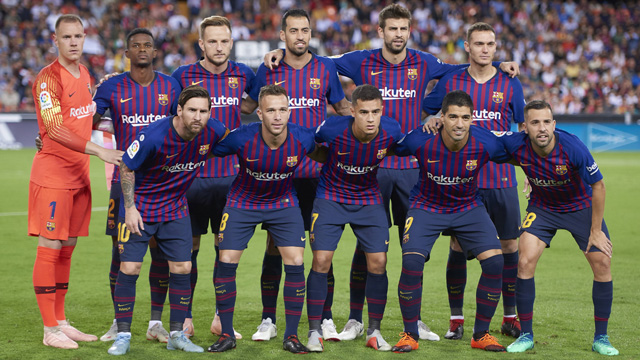
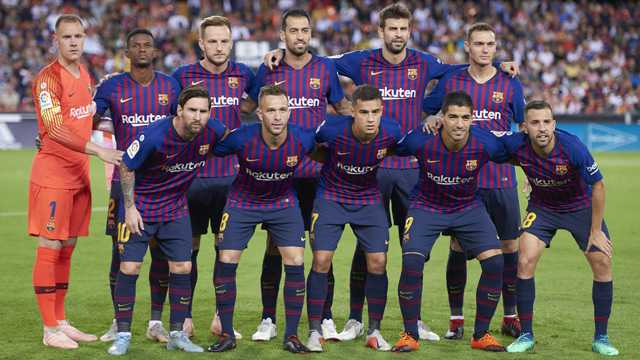
Optimized assets and lazy load images

diff --git a/src/Container/Players/Players.js b/src/Container/Players/Players.js
@@ -3,9 +3,8 @@ import { playerAction } from '../../Actions/Actions';
 import store from '../../Store';
 import { connect } from 'react-redux';
 import './Players.css'
-import Profile from '../../Components/Profile/Profile';
 import playersData from '../../Stubs/players.json';
-
+import Profile from '../../Components/Profile/Profile';
 
 
 class Players extends Component {
@@ -19,6 +18,13 @@ class Players extends Component {
         const togglePlayers = () => {
             const players = document.querySelector("#playersList");
             if(players.classList.contains("hide")){
+
+                const lazyImages = document.querySelectorAll(".lazy");
+                lazyImages.forEach((item) => {
+                    item.src = item.dataset.src;
+                    item.classList.remove("lazy");
+                });
+
                 document.querySelector(".showPlayers").innerHTML = "Hide Players";
                 players.classList.remove("anime");
                 players.classList.remove("hide");
@@ -39,13 +45,12 @@ class Players extends Component {
         } else {
         return(
         <>
-        <button className="btn btn-info showPlayers" onClick={() => togglePlayers()}>Show players</button>
-        <div className="container-fluid">
-            <div className="row row--bg hide" id="playersList">
-            {this.props.data.players.map((player) => <Profile key={player._id} player={player}/> 
-            )}
+        <button className="btn btn-info showPlayers" onClick={() => togglePlayers()}>Show players</button>        
+            <div className="container-fluid">
+                <div className="row row--bg hide" id="playersList">
+                    {this.props.data.players.map((player) => <Profile key={player._id} player={player}/>)}                
+                </div>
             </div>
-        </div>
         </>
         )
         }

diff --git a/public/index.html b/public/index.html
@@ -3,7 +3,6 @@
   <head>
     <meta charset="utf-8" />
     <!-- <link rel="shortcut icon" href="%PUBLIC_URL%/../../src/Assets/brand.svg" /> -->
-    <link href="https://stackpath.bootstrapcdn.com/font-awesome/4.7.0/css/font-awesome.min.css" rel="stylesheet">
     <link rel="shortcut icon" href="./brand.ico">
     <meta
       name="viewport"
@@ -25,7 +24,8 @@
       Learn how to configure a non-root public URL by running `npm run build`.
     -->
     <title>BarcaLoverz</title>
-    <link rel="stylesheet" href="https://maxcdn.bootstrapcdn.com/bootstrap/3.4.0/css/bootstrap.min.css">
+    <link rel="preload" as="style" href="https://stackpath.bootstrapcdn.com/font-awesome/4.7.0/css/font-awesome.min.css" onload="this.rel='stylesheet'">
+    <link rel="preload" as="style" href="https://maxcdn.bootstrapcdn.com/bootstrap/3.4.0/css/bootstrap.min.css" onload="this.rel='stylesheet'">
   </head>
   <body>
     <noscript>You need to enable JavaScript to run this app.</noscript>

diff --git a/src/Components/Profile/Profile.css b/src/Components/Profile/Profile.css
@@ -13,9 +13,18 @@
     transform: scale(1.10)
 }
 
-.profile-pic {
+.profile-pic-holder {
+    min-height: 200px;
     max-width: 100%;
     max-height: 70%;
+    background: #f6f7f8;
+    background-image: linear-gradient(to right, #f6f7f8 0%, #edeef1 20%, #edeef1 40%, #f6f7f8 100%);
+    animation: shimmer 1s forwards linear infinite;
+}
+
+.profile-pic {
+    width: 100%;
+    height: 100%;
 }
 
 .info {
@@ -48,6 +57,17 @@
     width: auto;
 }
 
+
+@-webkit-keyframes shimmer {
+    0% {
+      background-position: -468px 0;
+    }
+    
+    100% {
+      background-position: 468px 0; 
+    }
+  }
+
 @media only screen and (min-width: 768px) and (max-width: 1100px){
     .player-info {
         max-width: 218px !important;
@@ -55,9 +75,6 @@
     
 }
  
-
-
-
 @media screen and (max-width: 480px){
 .player-info {
     margin-left: 3% !important;

diff --git a/src/Components/Profile/Profile.js b/src/Components/Profile/Profile.js
@@ -4,9 +4,12 @@ import './Profile.css'
 // let count = 0;
 const Profile = (props) => {
 
+    
     return (
         <div className="col-md-4 col-xs-6 col-sm-3 player-info">
-            <img src={props.player.imageURL} alt="profile-pic" className="profile-pic" />
+            <div className="profile-pic-holder">
+                <img data-src={props.player.imageURL} alt="" className="profile-pic lazy"/>
+            </div>
             <div className="info">
                 <b>Name:</b ><span className="details">{props.player.fullName}</span><br />
                 <b>Nationality:</b><span className="details">{props.player.nationality}</span><br />

diff --git a/src/Components/Banner/Banner.js b/src/Components/Banner/Banner.js
@@ -2,10 +2,10 @@ import React from 'react';
 import "react-responsive-carousel/lib/styles/carousel.min.css";
 import { Carousel } from 'react-responsive-carousel';
 import messi1 from '../../Assets/M1.jpg';
-import team from '../../Assets/team1.jpg';
-import stadium from '../../Assets/stadium.jpg'
-import dinho from '../../Assets/dinho.png';
-import iniesta from '../../Assets/iniesta.jpg'
+import team from '../../Assets/team2.jpg';
+import stadium from '../../Assets/stadium.webp'
+import dinho from '../../Assets/dinho.webp';
+import iniesta from '../../Assets/iniesta.webp'
 
 const Banner = () => {
     return (
